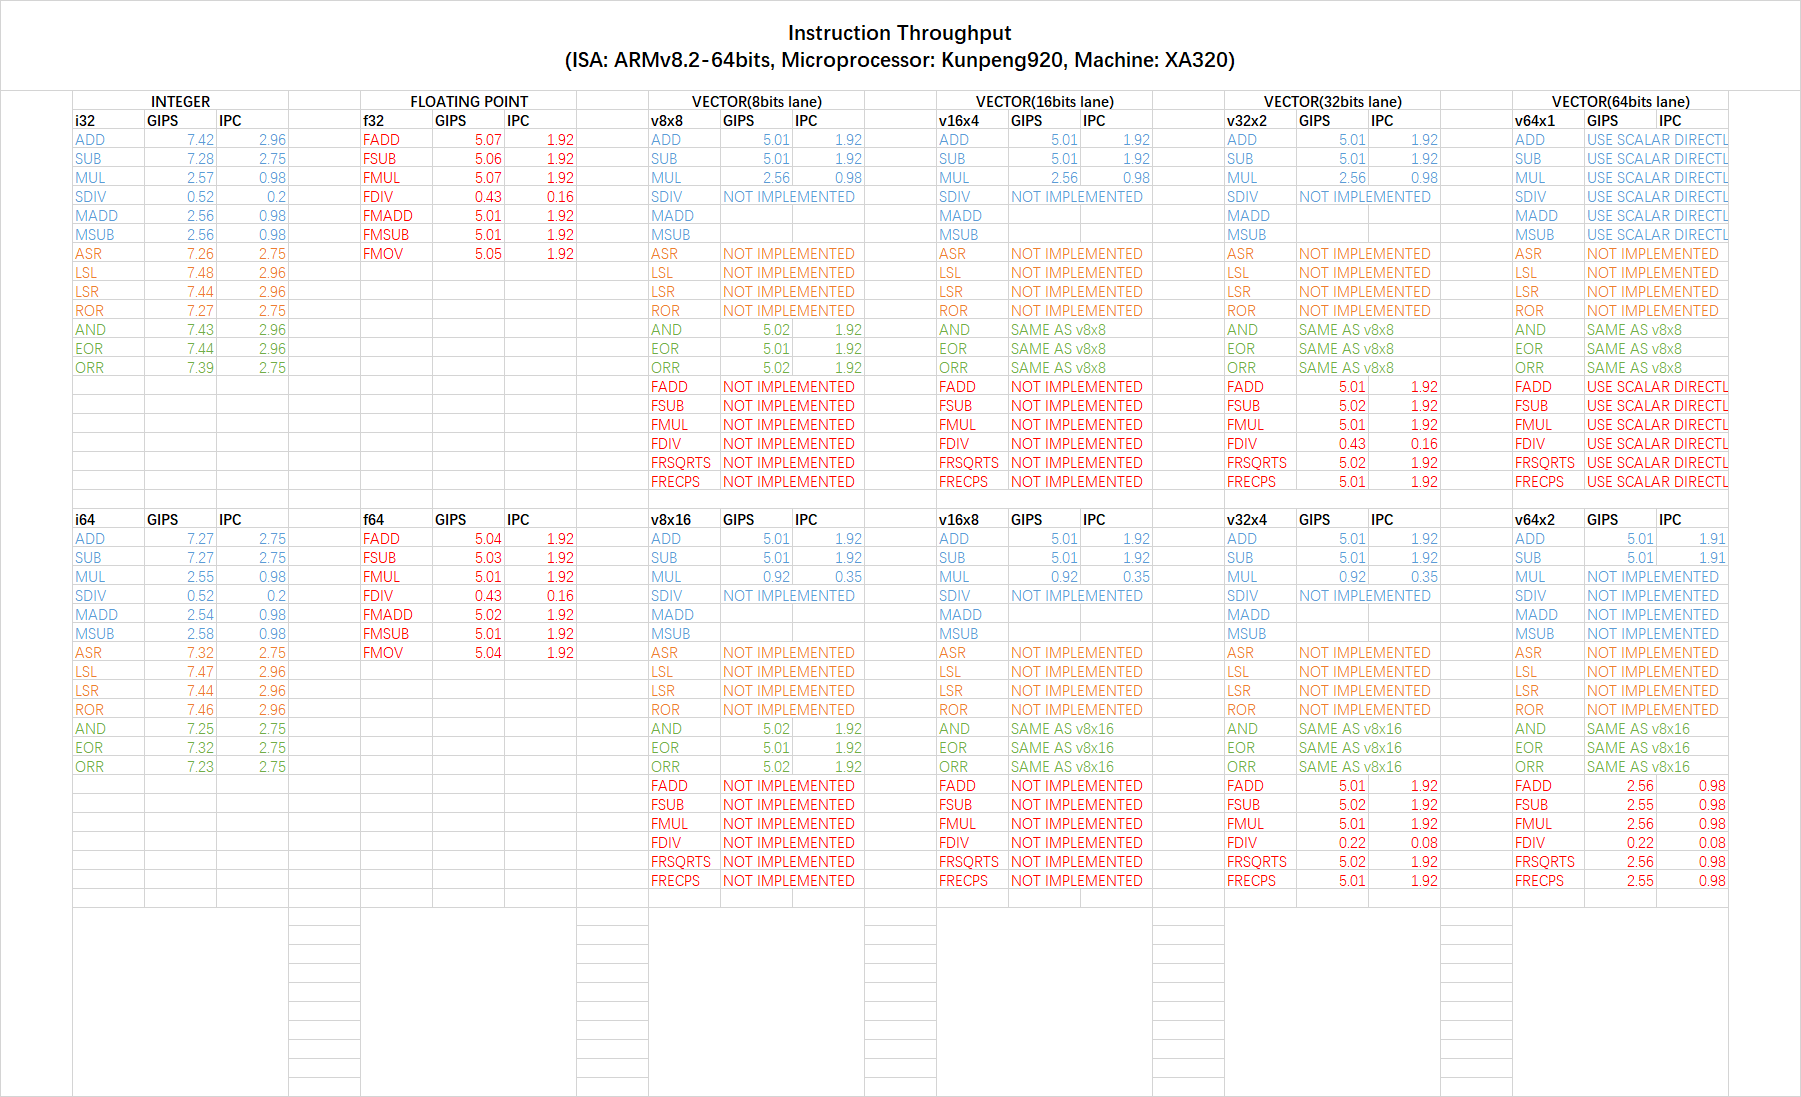
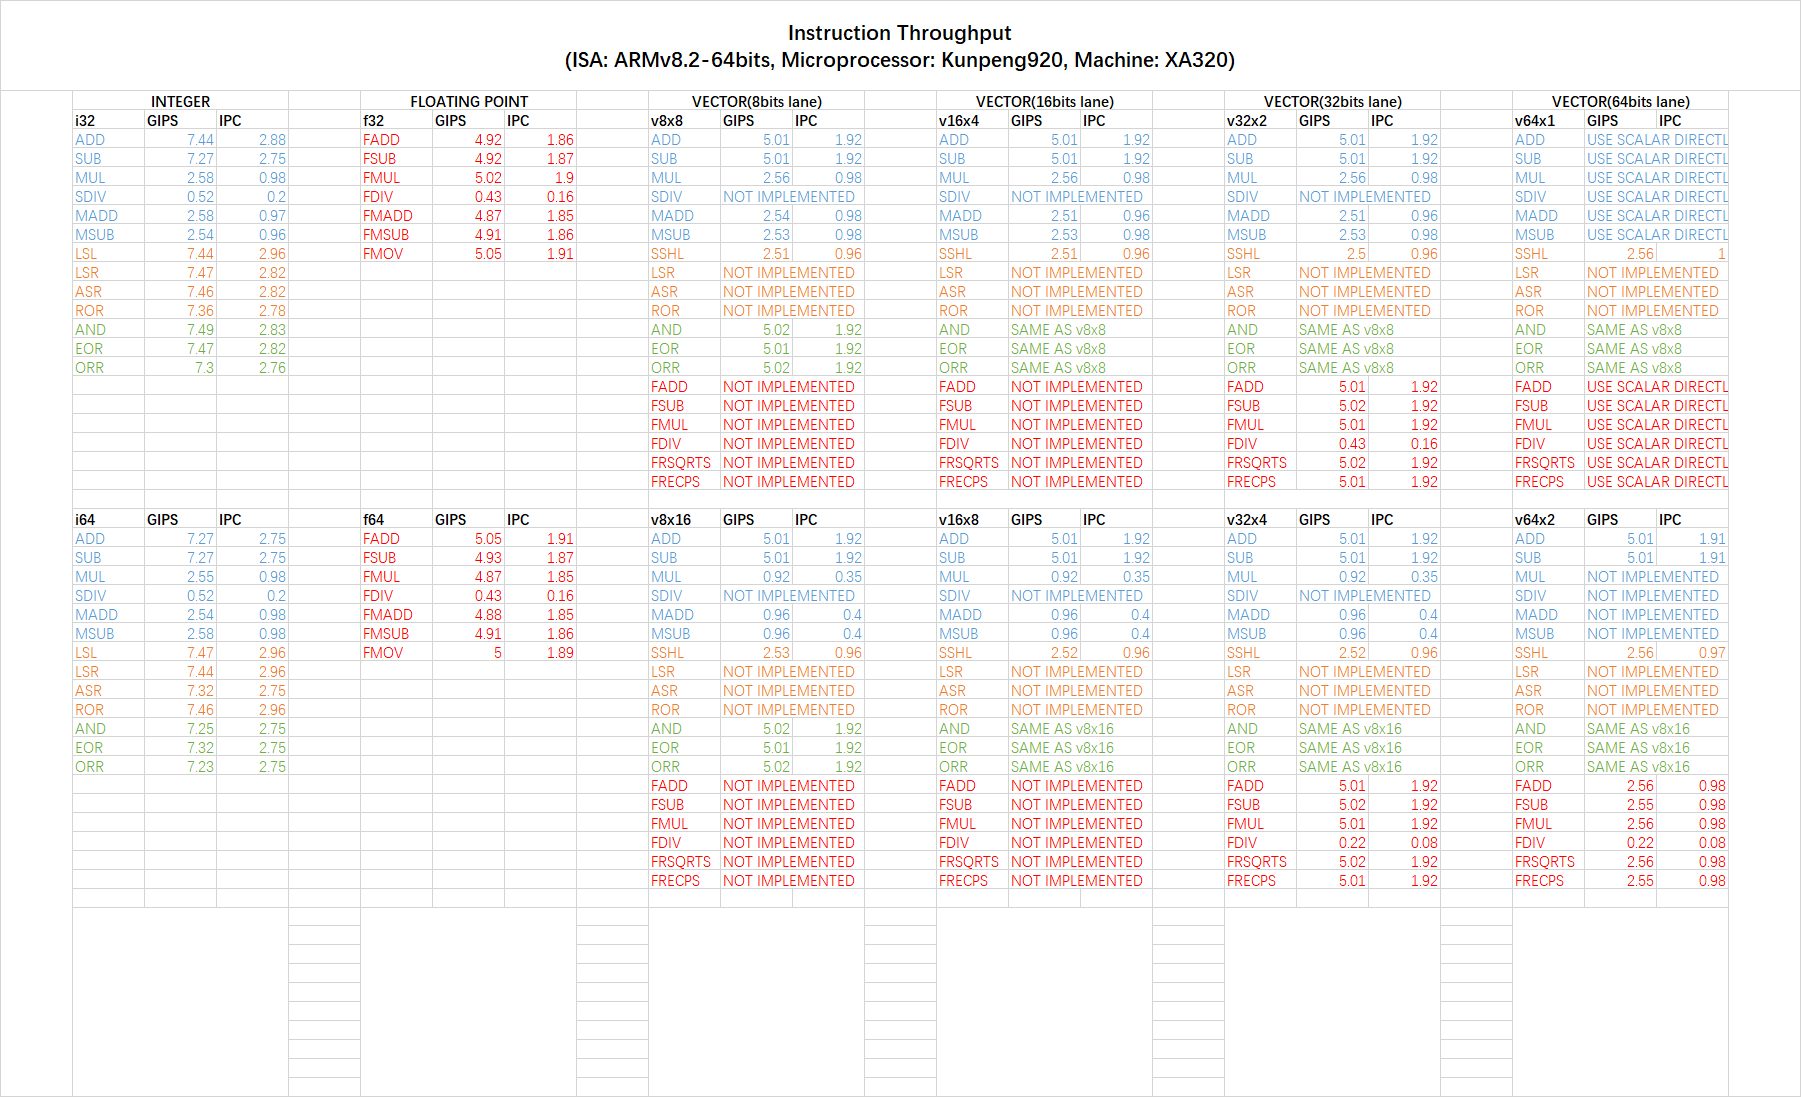
Use new result of inst throughput

diff --git a/inst_throughput.c b/inst_throughput.c
@@ -6,17 +6,19 @@
 
 #define REPEATS 1000000
 
-#define TEST_CORE(op, core_inst)                        \
-  {                                                     \
-    TICK(counter);                                      \
-    for (i = 0; i < REPEATS; i += 1000 * 10) {          \
-      X1000(core_inst);                                 \
-    }                                                   \
-    TOCK(counter);                                      \
-    u_int64_t total_ns = counter * counter_ns();        \
-    double gips = (double)REPEATS / (double)total_ns;   \
-    printf(                                             \
-      "%5s %.2f GIPS (Giga inst per sec)\n", op, gips); \
+#define TEST_CORE(op, core_inst)                    \
+  {                                                 \
+    TICK(counter);                                  \
+    for (i = 0; i < REPEATS; i += 1000 * 10) {      \
+      X1000(core_inst);                             \
+    }                                               \
+    TOCK(counter);                                  \
+    u_int64_t total_ns = counter * counter_ns();    \
+    double ns = (double)total_ns / (double)REPEATS; \
+    double ipc = (double)cpu_clock() / (double)ns;  \
+    double gips = 1 / ns;  /* Giga inst per sec */  \
+    printf("%5s %.2f GIPS IPC: %.2f\n",             \
+      op, gips, ipc);                               \
   }
 
 #define TEST_ICORE(op, m, n) TEST_CORE(op,            \
@@ -65,25 +67,20 @@
     op" d9,d10"m"d10"n"d10;\n"             \
 );)
 
-#define TEST_VCORE(op, m, n) TEST_CORE(op, \
-  asm volatile(                            \
-    op" v0.4s,v10.4s"m"v10.4s"n"v10.4s;\n" \
-    op" v1.4s,v10.4s"m"v10.4s"n"v10.4s;\n" \
-    op" v2.4s,v10.4s"m"v10.4s"n"v10.4s;\n" \
-    op" v3.4s,v10.4s"m"v10.4s"n"v10.4s;\n" \
-    op" v4.4s,v10.4s"m"v10.4s"n"v10.4s;\n" \
-    op" v5.4s,v10.4s"m"v10.4s"n"v10.4s;\n" \
-    op" v6.4s,v10.4s"m"v10.4s"n"v10.4s;\n" \
-    op" v7.4s,v10.4s"m"v10.4s"n"v10.4s;\n" \
-    op" v8.4s,v10.4s"m"v10.4s"n"v10.4s;\n" \
-    op" v9.4s,v10.4s"m"v10.4s"n"v10.4s;\n" \
+#define TEST_VCORE(op, m, n) TEST_CORE(op,     \
+  asm volatile(                                \
+    op" v0.4s,v10.4s"m"v10.4s"n"v10.4s;\n"     \
+    op" v1.4s,v10.4s"m"v10.4s"n"v10.4s;\n"     \
+    op" v2.4s,v10.4s"m"v10.4s"n"v10.4s;\n"     \
+    op" v3.4s,v10.4s"m"v10.4s"n"v10.4s;\n"     \
+    op" v4.4s,v10.4s"m"v10.4s"n"v10.4s;\n"     \
+    op" v5.4s,v10.4s"m"v10.4s"n"v10.4s;\n"     \
+    op" v6.4s,v10.4s"m"v10.4s"n"v10.4s;\n"     \
+    op" v7.4s,v10.4s"m"v10.4s"n"v10.4s;\n"     \
+    op" v8.4s,v10.4s"m"v10.4s"n"v10.4s;\n"     \
+    op" v9.4s,v10.4s"m"v10.4s"n"v10.4s;\n"     \
 );)
 
-// ------------------------------------------ //
-// I: accept 32bits and 64bits integer instruction
-// F: accept 32bits floating point instruction
-// D: accept 64bits floating point instruction
-// V: accept 32bitsx4 integer/floating point instruction
 #define TEST_I1(op) TEST_ICORE(op, "//", "  ")
 #define TEST_F1(op) TEST_FCORE(op, "//", "  ")
 #define TEST_D1(op) TEST_DCORE(op, "//", "  ")
@@ -97,17 +94,9 @@
 #define TEST_D3(op) TEST_DCORE(op, ", ", ", ")
 #define TEST_V3(op) TEST_VCORE(op, ", ", ", ")
 
-// ------------------------------------------ //
-// We need -O3 to make sure unrolling in TEST_CORE works.
 __attribute__ ((optimize(3)))
 int main() {
   register int a[11];
   register u_int64_t counter, i;
-  double cpu_ghz = 1 / cpu_clock();
-  printf("CPU runs at %.2f GHz\n", cpu_ghz);
-  TEST_I1("MOV");
-  TEST_I2("MUL");
-  TEST_I3("MADD");
-  TEST_F2("FADD");
-  TEST_V2("ADD");
+  TEST_I2("ADD");
 }
